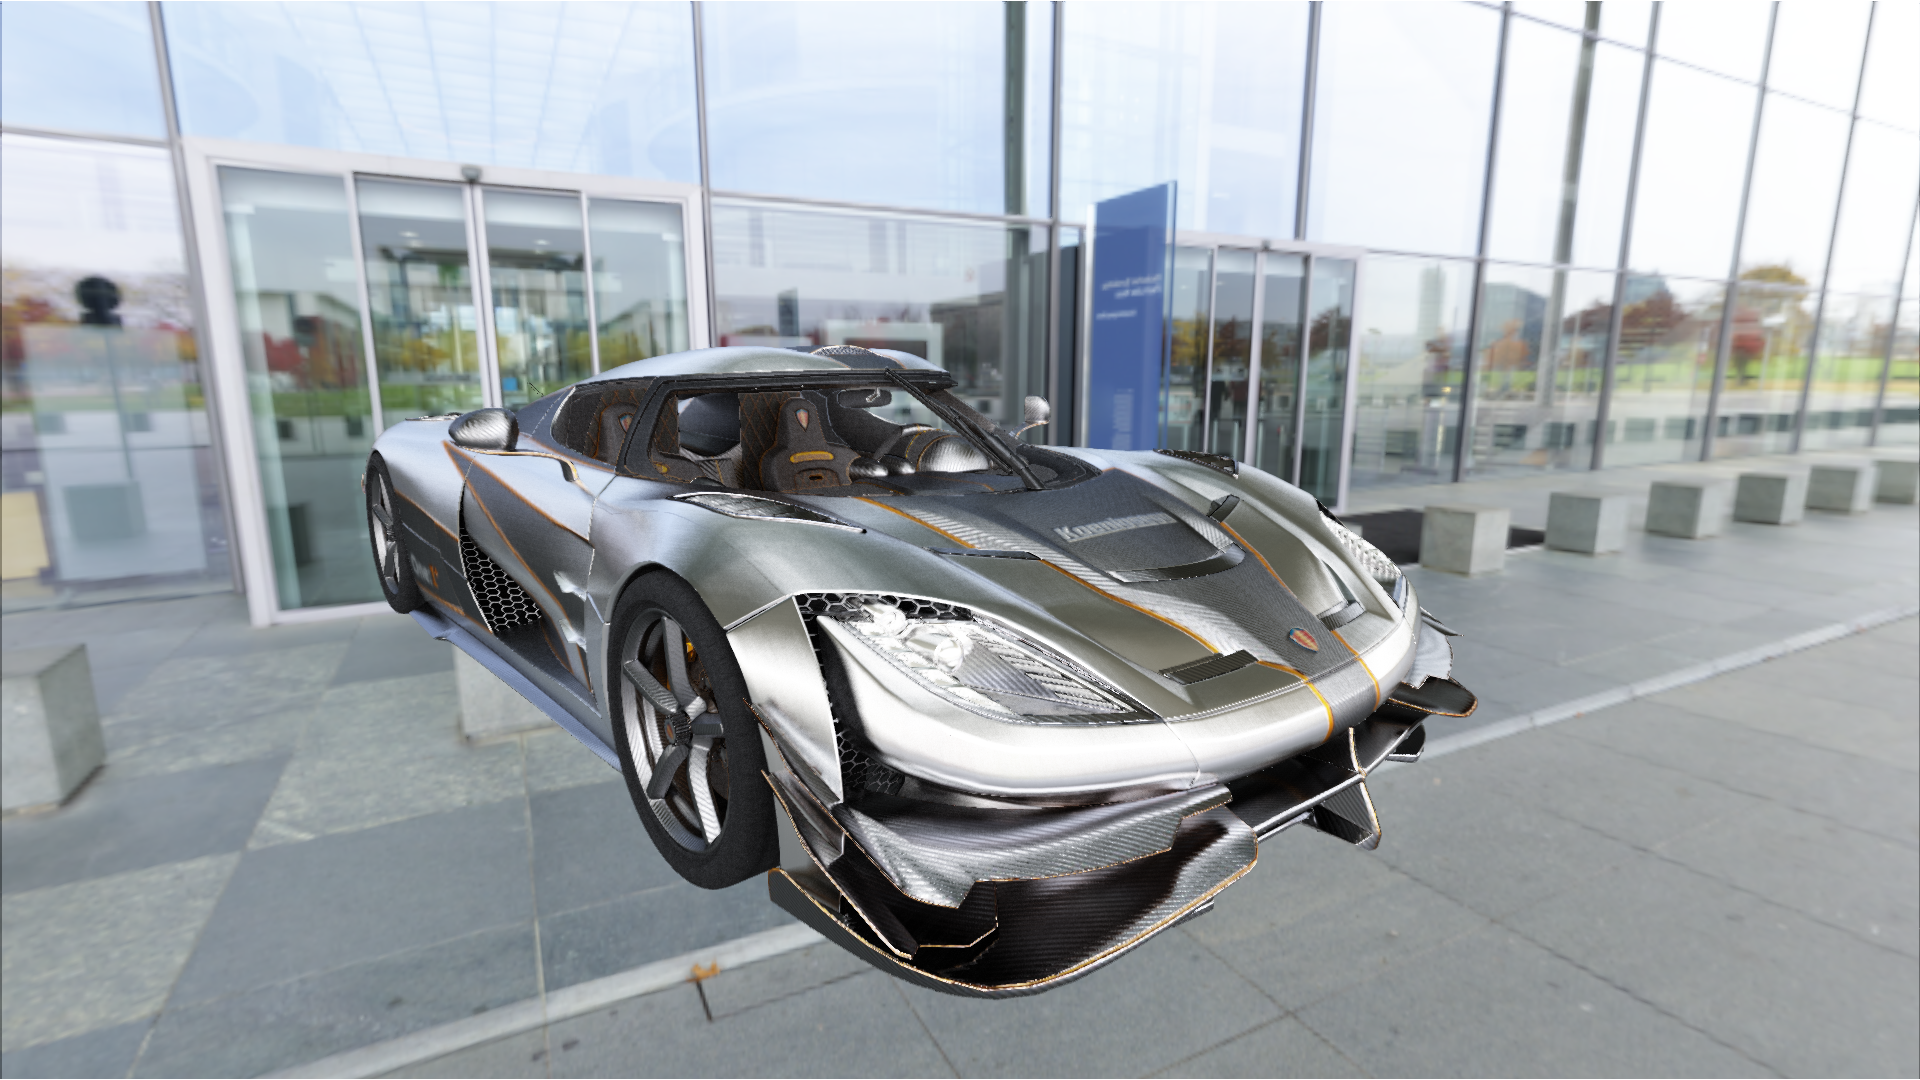
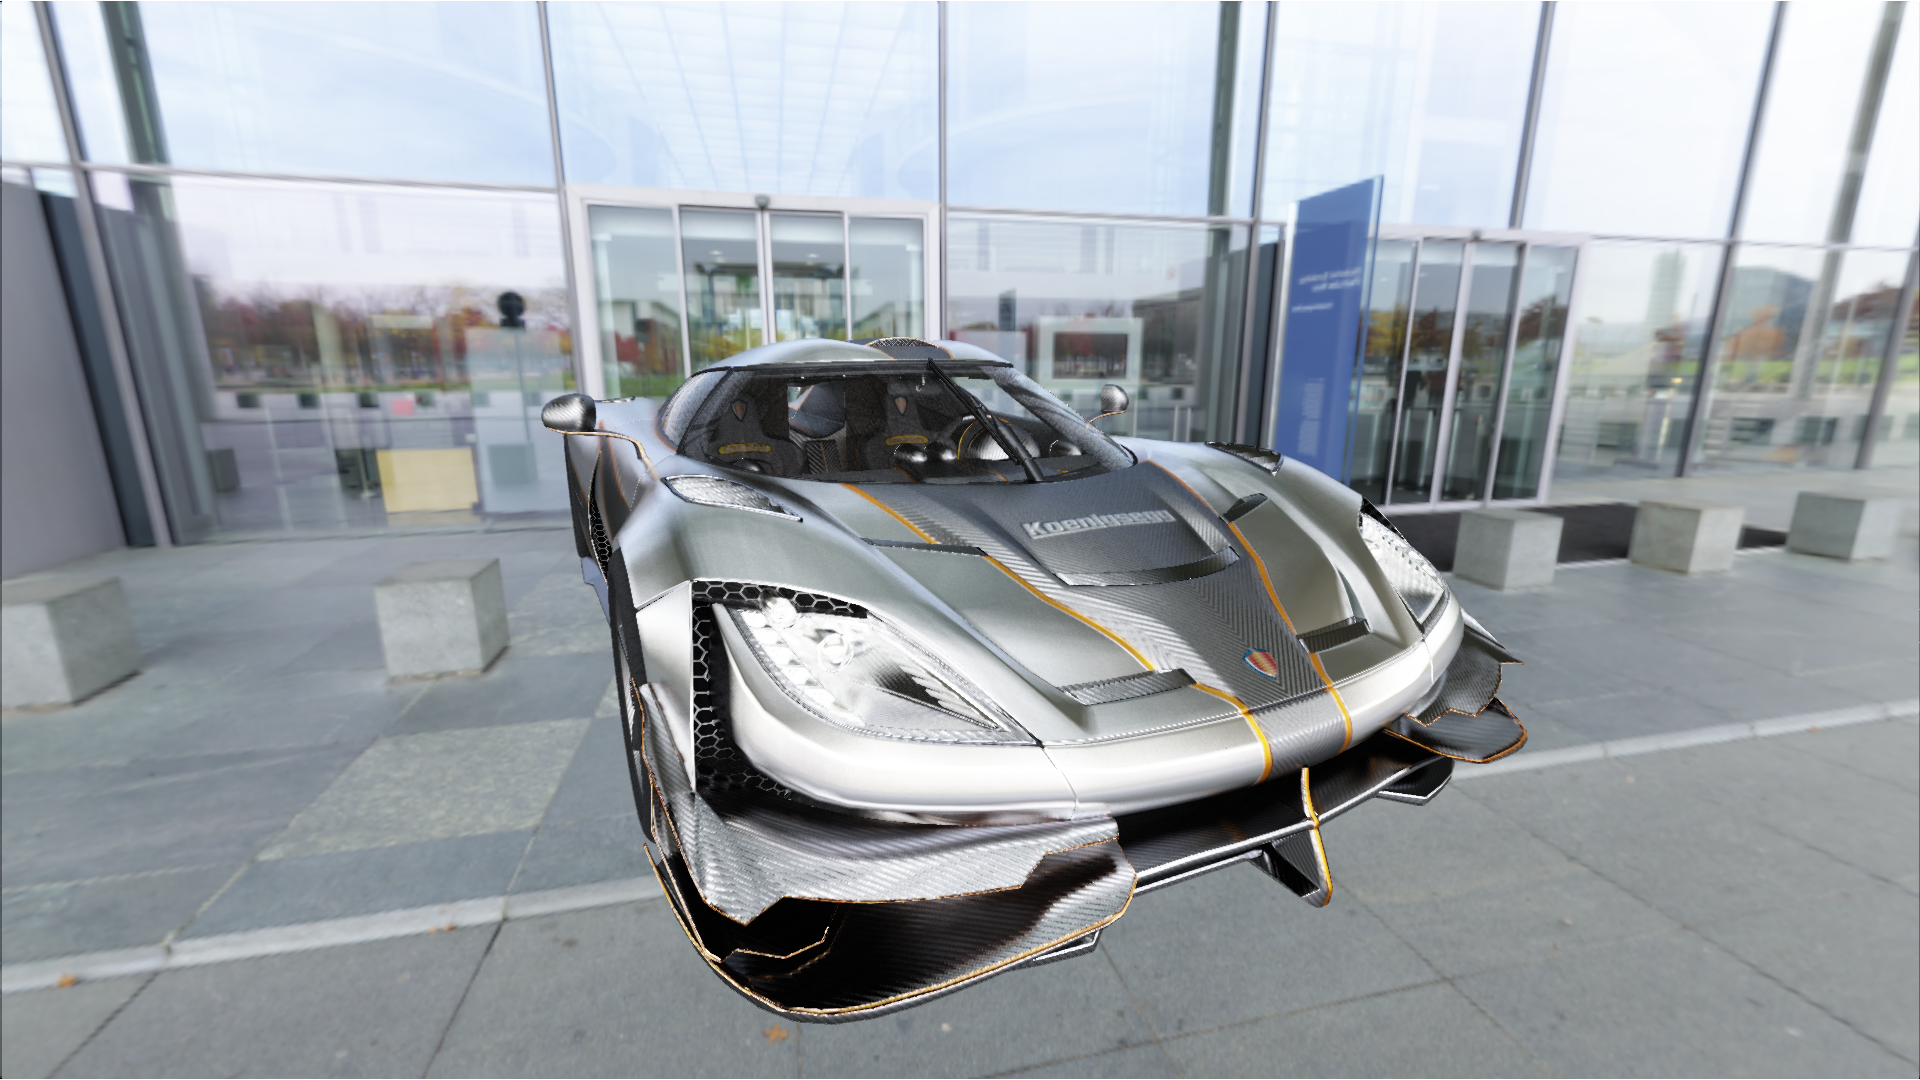
implement glass material

diff --git a/src/gui.cpp b/src/gui.cpp
@@ -214,6 +214,7 @@ namespace raytracing
       check(ImGui::Checkbox("Interpolate normals", &rt::get()->mRender.mInterpolateNormals));
       check(ImGui::Checkbox("Show textures", &rt::get()->mRender.mShowTextures));
       check(ImGui::Checkbox("FXAA", &rt::get()->mRender.mUseFXAA));
+      check(ImGui::Checkbox("Post processing", &rt::get()->mRender.mPostProcessing));
       if (check(ImGui::Checkbox("V-Sync", &rt::get()->mVSyncEnabled)))
         rt::get()->mWindow.vsync(rt::get()->mVSyncEnabled);
       int minAccumulation = 1, minBounces = 2;

diff --git a/src/render/render.h b/src/render/render.h
@@ -29,6 +29,7 @@ namespace raytracing
     bool mRenderMode = false;
     bool mInterpolateNormals = true;
     bool mShowTextures = false;
+    bool mPostProcessing = true;
     uint32_t mSamplesCount = 1;
     uint32_t mBouncesCount = 16;
     uint32_t mMaxAccumulation = 32;

diff --git a/src/render/render.cpp b/src/render/render.cpp
@@ -153,6 +153,7 @@ namespace raytracing
     data.renderMode = mRenderMode;
     data.interpolateNormals = mInterpolateNormals;
     data.showTextures = mShowTextures;
+    data.postProcessing = mPostProcessing;
     mGlobalDataBuffer.set(&data);
   }
 }

diff --git a/shaders/ubos.h b/shaders/ubos.h
@@ -31,6 +31,7 @@
   int renderMode;                   \
   int interpolateNormals;           \
   int showTextures;                 \
+  int postProcessing;               \
 }
 
 #ifdef __cplusplus
